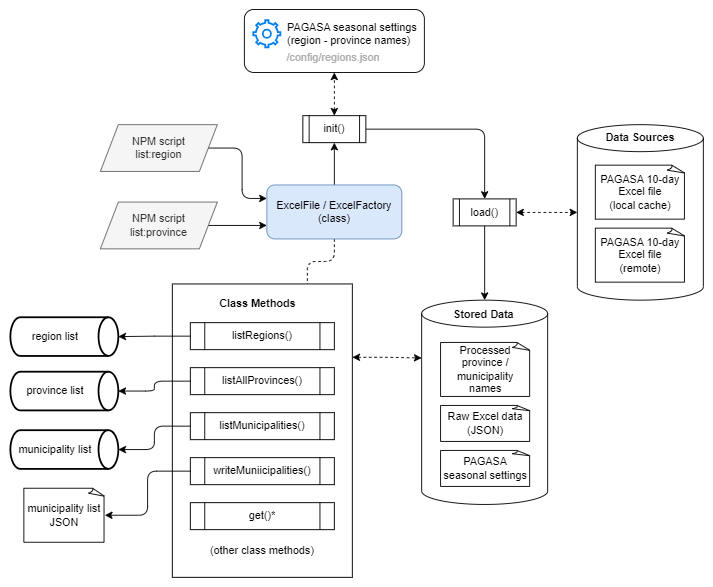
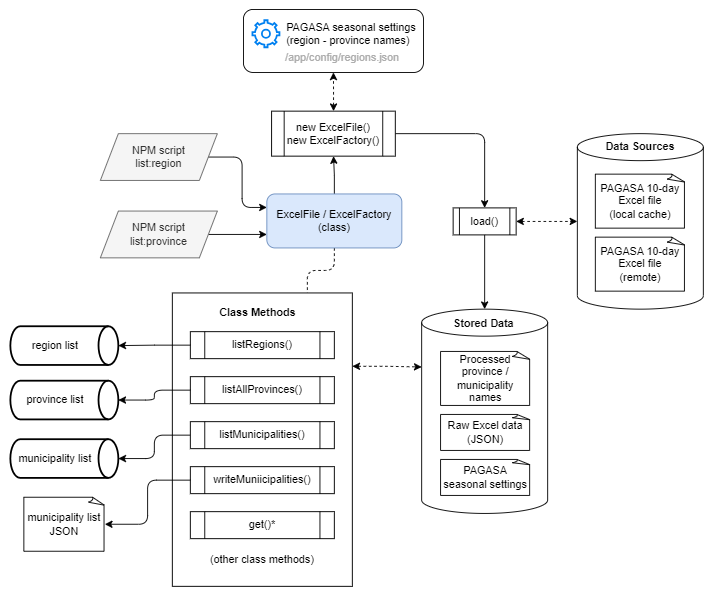
deploy: a5b8fa7c665757b933ef15bbef74b37d24a1ca1f

diff --git a/index.html b/index.html
@@ -78,13 +78,15 @@
 }
 </code></pre>
 <p>Pre-compiled windows binaries are available for download in the latest <a href="https://github.com/ciatph/ph-municipalities/releases">Releases</a> download page.</p>
+<p><span id="class-documentation"></span></p>
 <h2>Class Documentation</h2>
 <ul>
-<li>Class and methods documentation are available at https://ciatph.github.io/ph-municipalities.</li>
-<li>The documentation website's HTML files are available in the <a href="https://github.com/ciatph/ph-municipalities/tree/gh-pages"><code>gh-pages</code></a> branch of this repository.</li>
-<li>Class source codes are available at https://github.com/ciatph/ph-municipalities.</li>
+<li>Class and methods documentation are available at <a href="https://ciatph.github.io/ph-municipalities">https://ciatph.github.io/ph-municipalities</a>.</li>
+<li>Class source codes are available at the <a href="https://github.com/ciatph/ph-municipalities">ph-municipalities</a> GitHub repository.</li>
+<li>The documentation website's HTML files are available in the <a href="https://github.com/ciatph/ph-municipalities/tree/gh-pages"><code>gh-pages</code></a> branch of the GitHub repository.</li>
 <li>Refer to the <a href="#building-the-class-documentation">Building the Class Documentation</a> section for more information about updating and building the class documentation.</li>
 </ul>
+<p><span id="requirements"></span></p>
 <h2>Requirements</h2>
 <p>The following dependencies are used for this project. Feel free to use other dependency versions as needed.</p>
 <details>
@@ -113,6 +115,121 @@
 </li>
 </ol>
 </details>
+<p><span id="faqs"></span></p>
+<h2>FAQs</h2>
+<details>
+<summary style="color: #808080; font-size: 24px;">
+<b>What is the purpose or goal of ph-municipalities?</b>
+</summary>
+<br>
+<p>ph-municipalities aims to provide a simple, organized, and flexible interface for viewing, querying, and listing Philippine provinces and municipalities using the <a href="https://www.pagasa.dost.gov.ph/climate/climate-prediction/10-day-climate-forecast">PAGASA 10-day weather forecast Excel files</a> as the data source.</p>
+<p>Its early stages were written as procedural functions within a <em>private backend project</em> for extracting 10-day weather forecast data from the PAGASA 10-day weather forecast Excel files. When the private project started gaining complexity, a need to separate the logic and management for listing the Philippine province and municipalities per region rose. Creating an independent, public OpenSource version listing the provinces and municipalities per region was decided after experiencing drawbacks and difficulties testing using similar OpenSource libraries (some of which are <a href="#similar-libraries">listed below</a>) for that project.</p>
+<blockquote>
+<p><strong><em>ph-municipalities aim to contribute to the OpenSource community by listing ONLY Philippine provinces and municipalities' names, using <a href="https://www.pagasa.dost.gov.ph/climate/climate-prediction/10-day-climate-forecast">PAGASA's 10-day weather forecast Excel files</a>, which are publicly accessible to everyone.</em></strong></p>
+</blockquote>
+</details>
+<br>
+<details>
+<summary style="color: #808080; font-size: 24px;">
+<b>Can ph-municipalities parse and extract PAGASA 10-day weather forecast data?</b>
+</summary>
+<br>
+<p>While ph-municipalities use a <a href="https://www.pagasa.dost.gov.ph/climate/climate-prediction/10-day-climate-forecast">PAGASA 10-day weather forecast Excel file</a> as a data source for its provinces and municipalities list, <strong><em>NO, it cannot parse and extract PAGASA 10-day weather forecast data</em></strong>.</p>
+<p>ph-municipalities only have class methods for parsing, extracting, listing and querying provinces and municipalities names data from a PAGASA 10-day weather forecast Excel file. Refer to the <strong>ExcelFile</strong> <a href="https://ciatph.github.io/ph-municipalities/ExcelFile.html">class documentation</a> for more information about its available methods.</p>
+</details>
+<br>
+<details>
+<summary style="color: #808080; font-size: 24px;" id="similar-libraries">
+<b>Are there alternative libraries to ph-municipalities for listing Philippine provinces and municipalities?</b>
+</summary>
+<br>
+<p>Yes, several OpenSource libraries and projects similar to ph-municipalities exist, which you can use in its place to list Philippine provinces and municipalities.</p>
+<p>Here is a list of several of these libraries and code repositories.
+Note, however, that these items use old and new data sources. These may not be for you if you require using provinces and municipalities' names data from the <a href="https://www.pagasa.dost.gov.ph/climate/climate-prediction/10-day-climate-forecast">PAGASA 10-day weather forecast Excel files</a>.</p>
+<ul>
+<li><a href="https://www.npmjs.com/package/psgc2">psgc2</a></li>
+<li><a href="https://www.npmjs.com/package/use-postal-ph">use-postal-ph</a></li>
+<li><a href="https://github.com/wilfredpine/philippine-address-selector">philippine-address-selector</a></li>
+<li><a href="https://www.npmjs.com/package/philippines">philippines</a></li>
+<li><a href="https://github.com/hubertursua/ph-locations">ph-locations</a></li>
+<li><a href="https://www.npmjs.com/package/select-philippines-address">select-philippines-address</a></li>
+<li><a href="https://github.com/OSSPhilippines/psgc-api">psgc-api</a></li>
+<li><a href="https://github.com/benhur07b/phl-admin-psgc">phl-admin-psgc</a></li>
+</ul>
+</details>
+<br>
+<details>
+<summary style="color: #808080; font-size: 24px;">
+<b>Is it possible to make ph-municipalities parse and extract PAGASA 10-day weather forecast data?</b>
+</summary>
+<br>
+<p>While ph-municipalites do not support parsing and extracting PAGASA 10-day weather forecast data, <em>you can extend the <code>ExcelFile</code> or <code>ExcelAdapter</code> classes with custom logic and codes to enable parsing and extracting PAGASA 10-day weather forecast data</em>.</p>
+<p>Since the <code>ExcelFile</code> or <code>ExcelAdapter</code> are <a href="https://developer.mozilla.org/en-US/docs/Web/JavaScript/Reference/Classes">classes</a> (functions in disguise, not true OOP, but inheritance still works), you can extend them with class inheritance, overriding or creating new class methods to accommodate processing the PAGASA 10-day weather forecast data. Refer to the <a href="https://ciatph.github.io/ph-municipalities">ph-municipalities class documentation</a> to know more about the available classes, member variables, and methods.</p>
+<p>An example of extending the classes to parse PAGASA 10-day weather forecast data may go along the lines of:</p>
+<pre class="prettyprint source lang-javascript"><code>const { ExcelFile } = require('ph-municipalities')
+
+class PAGASATendayParser extends ExcelFile {
+  /* Override constructor if neccessary
+  constructor (params) {
+    super(params)
+
+    // Custom class initialization logic here
+  }
+  */
+
+  getWeatherData () {
+    // Note: this.#data contains the &quot;raw&quot; original Excel rows data as JSON with weather data
+
+    const weatherData = this.#data.reduce((list, row, index) => {
+      // Write logic to parse and extract weather data here
+    }, [])
+
+    return weatherData
+  }
+}
+
+const parser = new PAGASATendayParser()
+weatherForecast = parser.getWeatherData()
+
+</code></pre>
+</details>
+<br>
+<details>
+<summary style="color: #808080; font-size: 24px;">
+  <span style="color: #808080; font-size: 24px;">
+    <b>How does ph-municipalities determine which provinces belong to a region?</b>
+  </span>
+</summary>
+<br>
+<p>The PAGASA 10-day Excel files only contain province and municipality names linked with weather data - <em>it has no region information</em>. Therefore, ph-municipalities link the province names in the 10-day Excel files to region/province names defined in the <code>/app/config/regions.json</code> file to determine which region they belong to.</p>
+<h3>The <code>/app/config/regions.json</code> file</h3>
+<p>This file contains region/province names mapping encoded manually with reference from the region and province names listed in the <a href="https://www.pagasa.dost.gov.ph/climate/climate-prediction/seasonal-forecast">PAGASA Seasonal Forecast website's</a> Forecast Analysis Rainfall table.</p>
+<blockquote>
+<p><strong>NOTE:</strong><br>
+The region/province mapping defined in this file may become outdated as time passes. ph-municipalities users are encouraged to <a href="#using-a-custom-configuration-file">Use a Custom Configuration File</a>, defining new region/province name mappings following the file's current format if they will notice region to province inconsistencies in the generated municipality lists.</p>
+</blockquote>
+</details>
+<br>
+<details>
+<summary style="color: #808080; font-size: 24px;">
+  <span style="color: #808080; font-size: 24px;">
+    <b>Are the provinces and municipality list generated by ph-municipalities updated?</b>
+  </span>
+</summary>
+<br>
+<p>NO. By default, ph-municipalities use an outdated PAGASA 10-day Excel file by default for its local data source, downloaded on August 8, 2022. However, it also provides several ways for using updated PAGASA 10-day Excel files as data sources by:</p>
+<ul>
+<li>Prompting to download an updated PAGASA 10-day Excel file using the <a href="#interactive-cli-scripts">Interactive CLI Scripts</a></li>
+<li>Providing <a href="https://ciatph.github.io/ph-municipalities/ExcelFile.html#download">class methods</a> to programmatically download and use a remote PAGASA 10-day Excel file</li>
+<li>Allowing to override the default region - province list settings during class initialization (See <a href="#using-a-custom-configuration-file">Class Usage - Using a Custom Configuration File</a>)</li>
+</ul>
+<blockquote>
+<p><strong>NOTE:</strong><br>
+Overall, the provinces and municipality list rely on the latest contents of a <a href="https://www.pagasa.dost.gov.ph/climate/climate-prediction/10-day-climate-forecast">PAGASA 10-day Excel file</a> and manual configuration of region/province names mapping in the <code>/app/config/regions.json</code> file (See <a href="#using-a-custom-configuration-file">Class Usage - Using a Custom Configuration File</a>). It is not yet known and tested if these are in sync with the latest regions, provinces, and municipalities in the more standard and canon <a href="https://psa.gov.ph/classification/psgc">Philippine Standard Geographic Code (PSGC)</a> data.</p>
+</blockquote>
+</details>
+<br>
+<p><span id="table-of-contents"></span></p>
 <h2>Table of Contents</h2>
 <details>
 <summary>
@@ -122,6 +239,7 @@ Click to expand the table of contents
 <li><a href="#ph-municipalities">ph-municipalities</a></li>
 <li><a href="#class-documentation">Class Documentation</a></li>
 <li><a href="#requirements">Requirements</a></li>
+<li><a href="#faqs">FAQs</a></li>
 <li><a href="#table-of-contents">Table of Contents</a></li>
 <li><a href="#installation">Installation</a></li>
 <li><a href="#installation-using-docker">Installation Using Docker</a></li>
@@ -183,6 +301,7 @@ Click to expand the table of contents
 <li><a href="#troubleshooting">Troubleshooting</a></li>
 </ul>
 </details>
+<p><span id="installation"></span></p>
 <h2>Installation</h2>
 <ol>
 <li>
@@ -235,6 +354,7 @@ npm install
 </details>
 </li>
 </ol>
+<p><span id="installation-using-docker"></span></p>
 <h2>Installation Using Docker</h2>
 <p>We can use Docker to run dockerized Node app for local development mode. The following methods require Docker and Docker compose correctly installed and set up on your development machine.</p>
 <h3>Docker Dependencies</h3>
@@ -262,6 +382,7 @@ The following dependencies are used to build and run the image. Please feel feel
 </li>
 </ol>
 </details>
+<p><span id="docker-for-localhost-development"></span></p>
 <h3>Docker for Localhost Development</h3>
 <details>
 <summary>Steps for using Docker with local development</summary>
@@ -307,6 +428,7 @@ The following dependencies are used to build and run the image. Please feel feel
 </li>
 </ol>
 </details>
+<p><span id="available-scripts"></span></p>
 <h2>Available Scripts</h2>
 <blockquote>
 <p><em><strong>Note:</strong> These NPM scripts run relative within the <code>/app</code> directory, when working on a git-cloned repository of the app. To run using only NodeJS, navigate first to the <code>/app</code> directory and execute a target script, for example:</em></p>
@@ -450,6 +572,7 @@ docker exec -u root -it ph-municipalities npm run docs:build
 </ul>
 </details>
 <br>
+<p><span id="class-usage"></span></p>
 <h2>Class Usage</h2>
 <p>Below are example usages of the <code>ExcelFile</code> class, run from the <strong>/app/src/examples</strong> directory. Check out the <code>/app/src/examples/sample_usage.js</code> file for more examples.</p>
 <h3>Load and Parse a Local Excel File</h3>
@@ -531,6 +654,7 @@ const municipalitiesFromProvince = file.listMunicipalities({ provinces })
 console.log(`---municipalities`, municipalitiesFromProvince)
 </code></pre>
 </details>
+<p><span id="download-and-parse-a-remote-excel-file"></span></p>
 <h3>Download and Parse a Remote Excel File</h3>
 <p>Adding a <code>url</code> field in the constructor parameter prepares the class to download a remote Excel file for the data source.</p>
 <details>
@@ -566,6 +690,7 @@ const main = async () => {
 main()
 </code></pre>
 </details>
+<p><span id="alternate-usage---events"></span></p>
 <h3>Alternate Usage - Events</h3>
 <details>
 <summary>
@@ -602,6 +727,7 @@ const main = () => {
 main()
 </code></pre>
 </details>
+<p><span id="using-a-custom-configuration-file"></span></p>
 <h3>Using a Custom Configuration File</h3>
 <p>The <strong>ph-municipalities</strong> <code>ExcelFile</code> and <code>ExcelFactory</code> classes use a default configuration file to define their regions and provinces in the <code>/app/config/regions.json</code> file. The regions and provinces data in this file syncs with the PAGASA Seasonal and 10-Day Weather Forecast Excel files provinces and municipalities naming convention, encoded by hand as of August 24, 2024.</p>
 <p>Follow the codes to define a custom regions config file, following the format of the <code>/app/config/regions.json</code> file to customize region definitions.</p>
@@ -676,6 +802,7 @@ console.log('\nProvince/municipality names should match with those in the 10-day
 console.log('---municipalities', municipalities)
 </code></pre>
 </details>
+<p><span id="building-standalone-windows-executables"></span></p>
 <h2>Building Standalone Windows Executables</h2>
 <details>
 <summary>
@@ -690,6 +817,7 @@ npm run build:win:province
 <li>Click the resulting executable files in the <code>/dist</code> directory to execute.</li>
 </ol>
 </details>
+<p><span id="compiling-into-single-minified-files"></span></p>
 <h2>Compiling into Single, Minified Files</h2>
 <details>
 <summary>
@@ -707,6 +835,7 @@ node dist/province
 </li>
 </ol>
 </details>
+<p><span id="building-the-class-documentation"></span></p>
 <h2>Building the Class Documentation</h2>
 <p>The class documentation uses <a href="https://jsdoc.app/">JSDoc</a> annotations where applicable in the JavaScript source codes inside the <strong>/src</strong> directory. There are two (2) options for building the class documentation.</p>
 <details>
@@ -769,6 +898,7 @@ chmod u+x scripts/docs-build.sh
 </li>
 </ol>
 </details>
+<p><span id="troubleshooting"></span></p>
 <h2>Troubleshooting</h2>
 <p>This section describes several common errors and related fixes.</p>
 <details>
@@ -808,7 +938,7 @@ chmod u+x scripts/docs-build.sh
 <br class="clear">
 
 <footer>
-    Generated by <a href="https://github.com/jsdoc3/jsdoc">JSDoc 4.0.3</a> on Thu Sep 12 2024 20:20:27 GMT+0000 (Coordinated Universal Time) using the Minami theme.
+    Generated by <a href="https://github.com/jsdoc3/jsdoc">JSDoc 4.0.3</a> on Fri Sep 13 2024 02:42:32 GMT+0000 (Coordinated Universal Time) using the Minami theme.
 </footer>
 
 <script>prettyPrint();</script>

diff --git a/ExcelFile.html b/ExcelFile.html
@@ -774,7 +774,7 @@ Content: [{ municipality, province }, ... ]</p>
 
 
 <div class="description">
-    <p>Other app settings and configurations</p>
+    <p>Other class settings and configurations</p>
 </div>
 
 
@@ -3540,7 +3540,7 @@ Lists municipalities by by provinces.</p>
 <br class="clear">
 
 <footer>
-    Generated by <a href="https://github.com/jsdoc3/jsdoc">JSDoc 4.0.3</a> on Thu Sep 12 2024 20:20:27 GMT+0000 (Coordinated Universal Time) using the Minami theme.
+    Generated by <a href="https://github.com/jsdoc3/jsdoc">JSDoc 4.0.3</a> on Fri Sep 13 2024 02:42:32 GMT+0000 (Coordinated Universal Time) using the Minami theme.
 </footer>
 
 <script>prettyPrint();</script>

diff --git a/classes_excel_index.js.html b/classes_excel_index.js.html
@@ -89,7 +89,7 @@ class ExcelFile {
   }
 
   /**
-   * Other app settings and configurations
+   * Other class settings and configurations
    * @type {Object.&lt;string, string | number>}
    */
   #options = {
@@ -616,7 +616,7 @@ module.exports = ExcelFile
 <br class="clear">
 
 <footer>
-    Generated by <a href="https://github.com/jsdoc3/jsdoc">JSDoc 4.0.3</a> on Thu Sep 12 2024 20:20:27 GMT+0000 (Coordinated Universal Time) using the Minami theme.
+    Generated by <a href="https://github.com/jsdoc3/jsdoc">JSDoc 4.0.3</a> on Fri Sep 13 2024 02:42:32 GMT+0000 (Coordinated Universal Time) using the Minami theme.
 </footer>
 
 <script>prettyPrint();</script>

diff --git a/ExcelFactory.html b/ExcelFactory.html
@@ -326,7 +326,7 @@ downloading the Excel file to a local Excel file with a random-generated filenam
 <br class="clear">
 
 <footer>
-    Generated by <a href="https://github.com/jsdoc3/jsdoc">JSDoc 4.0.3</a> on Thu Sep 12 2024 20:20:27 GMT+0000 (Coordinated Universal Time) using the Minami theme.
+    Generated by <a href="https://github.com/jsdoc3/jsdoc">JSDoc 4.0.3</a> on Fri Sep 13 2024 02:42:32 GMT+0000 (Coordinated Universal Time) using the Minami theme.
 </footer>
 
 <script>prettyPrint();</script>

diff --git a/global.html b/global.html
@@ -1110,7 +1110,7 @@ Attaches municipalities count and total count to the return data.</p>
 <br class="clear">
 
 <footer>
-    Generated by <a href="https://github.com/jsdoc3/jsdoc">JSDoc 4.0.3</a> on Thu Sep 12 2024 20:20:27 GMT+0000 (Coordinated Universal Time) using the Minami theme.
+    Generated by <a href="https://github.com/jsdoc3/jsdoc">JSDoc 4.0.3</a> on Fri Sep 13 2024 02:42:32 GMT+0000 (Coordinated Universal Time) using the Minami theme.
 </footer>
 
 <script>prettyPrint();</script>

diff --git a/lib_selector.js.html b/lib_selector.js.html
@@ -124,7 +124,7 @@ module.exports = selectDataSource
 <br class="clear">
 
 <footer>
-    Generated by <a href="https://github.com/jsdoc3/jsdoc">JSDoc 4.0.3</a> on Thu Sep 12 2024 20:20:27 GMT+0000 (Coordinated Universal Time) using the Minami theme.
+    Generated by <a href="https://github.com/jsdoc3/jsdoc">JSDoc 4.0.3</a> on Fri Sep 13 2024 02:42:32 GMT+0000 (Coordinated Universal Time) using the Minami theme.
 </footer>
 
 <script>prettyPrint();</script>

diff --git a/classes_excelfactory_index.js.html b/classes_excelfactory_index.js.html
@@ -97,7 +97,7 @@ module.exports = ExcelFactory
 <br class="clear">
 
 <footer>
-    Generated by <a href="https://github.com/jsdoc3/jsdoc">JSDoc 4.0.3</a> on Thu Sep 12 2024 20:20:27 GMT+0000 (Coordinated Universal Time) using the Minami theme.
+    Generated by <a href="https://github.com/jsdoc3/jsdoc">JSDoc 4.0.3</a> on Fri Sep 13 2024 02:42:32 GMT+0000 (Coordinated Universal Time) using the Minami theme.
 </footer>
 
 <script>prettyPrint();</script>

diff --git a/classes_colorlog_index.js.html b/classes_colorlog_index.js.html
@@ -174,7 +174,7 @@ module.exports = ColorLog
 <br class="clear">
 
 <footer>
-    Generated by <a href="https://github.com/jsdoc3/jsdoc">JSDoc 4.0.3</a> on Thu Sep 12 2024 20:20:27 GMT+0000 (Coordinated Universal Time) using the Minami theme.
+    Generated by <a href="https://github.com/jsdoc3/jsdoc">JSDoc 4.0.3</a> on Fri Sep 13 2024 02:42:32 GMT+0000 (Coordinated Universal Time) using the Minami theme.
 </footer>
 
 <script>prettyPrint();</script>

diff --git a/classes_schema_index.js.html b/classes_schema_index.js.html
@@ -123,7 +123,7 @@ module.exports = Schema
 <br class="clear">
 
 <footer>
-    Generated by <a href="https://github.com/jsdoc3/jsdoc">JSDoc 4.0.3</a> on Thu Sep 12 2024 20:20:27 GMT+0000 (Coordinated Universal Time) using the Minami theme.
+    Generated by <a href="https://github.com/jsdoc3/jsdoc">JSDoc 4.0.3</a> on Fri Sep 13 2024 02:42:32 GMT+0000 (Coordinated Universal Time) using the Minami theme.
 </footer>
 
 <script>prettyPrint();</script>

diff --git a/lib_format_display.js.html b/lib_format_display.js.html
@@ -80,7 +80,7 @@ module.exports = {
 <br class="clear">
 
 <footer>
-    Generated by <a href="https://github.com/jsdoc3/jsdoc">JSDoc 4.0.3</a> on Thu Sep 12 2024 20:20:27 GMT+0000 (Coordinated Universal Time) using the Minami theme.
+    Generated by <a href="https://github.com/jsdoc3/jsdoc">JSDoc 4.0.3</a> on Fri Sep 13 2024 02:42:32 GMT+0000 (Coordinated Universal Time) using the Minami theme.
 </footer>
 
 <script>prettyPrint();</script>

diff --git a/lib_utils.js.html b/lib_utils.js.html
@@ -88,7 +88,7 @@ module.exports = {
 <br class="clear">
 
 <footer>
-    Generated by <a href="https://github.com/jsdoc3/jsdoc">JSDoc 4.0.3</a> on Thu Sep 12 2024 20:20:27 GMT+0000 (Coordinated Universal Time) using the Minami theme.
+    Generated by <a href="https://github.com/jsdoc3/jsdoc">JSDoc 4.0.3</a> on Fri Sep 13 2024 02:42:32 GMT+0000 (Coordinated Universal Time) using the Minami theme.
 </footer>
 
 <script>prettyPrint();</script>

diff --git a/ColorLog.html b/ColorLog.html
@@ -1635,7 +1635,7 @@
 <br class="clear">
 
 <footer>
-    Generated by <a href="https://github.com/jsdoc3/jsdoc">JSDoc 4.0.3</a> on Thu Sep 12 2024 20:20:27 GMT+0000 (Coordinated Universal Time) using the Minami theme.
+    Generated by <a href="https://github.com/jsdoc3/jsdoc">JSDoc 4.0.3</a> on Fri Sep 13 2024 02:42:32 GMT+0000 (Coordinated Universal Time) using the Minami theme.
 </footer>
 
 <script>prettyPrint();</script>
